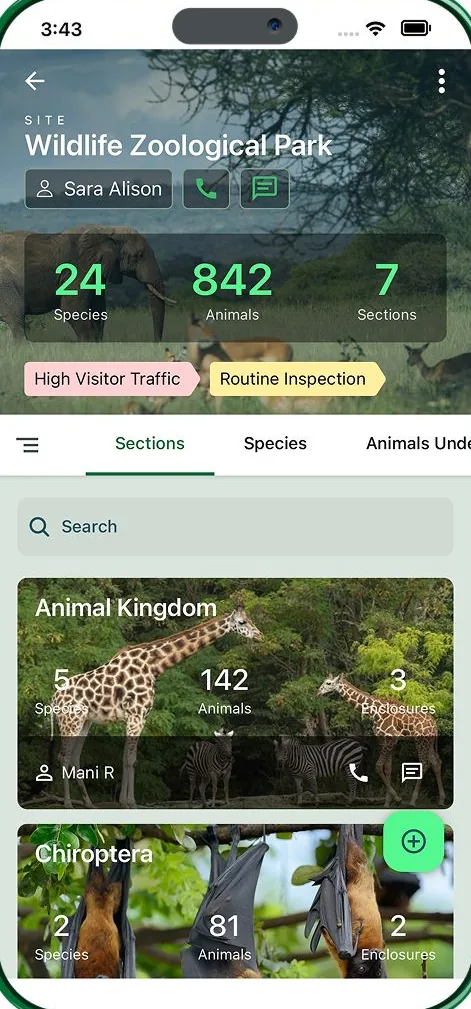
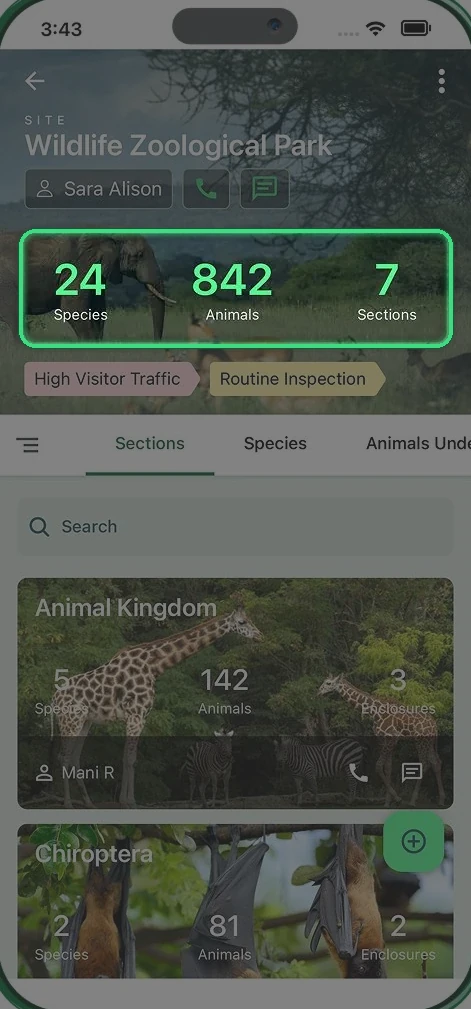
Back-to-top button, linked User Management windows, scrolling permissions screen, highlighted Housing summary panels
- A floating back-to-top button in the app's FAB gradient on every page
- Screen windows no longer repeat a module page's own stepper
- User Management: Parts 01, 03, 05 and 06 step through their cards in one window;
  the Role Permissions screen scrolls on its own under a fixed status bar;
  the Users directory windows show the "On every row" points
- Housing: the site, section and enclosure Summary panel screens highlight their stats

diff --git a/antz-onboard/app.js b/antz-onboard/app.js
@@ -362,7 +362,7 @@
        data-full is the whole screen in one image, for the lens */
     if (shot.scroll) {
       const sc = shot.scroll;
-      return `<div class="device device-phone${z}" data-full="${esc(sc.full)}"><div class="screen screen-scroll"><img class="screen-head" src="${esc(sc.head)}" alt=""><div class="screen-body" tabindex="0" data-at="${sc.at}" aria-label="${esc(shot.alt)}"><img src="${esc(sc.body)}" alt="${esc(shot.alt)}"></div><span class="screen-cue" aria-hidden="true">${esc(t('screen.scroll'))}</span>${k}</div>${l}</div>`;
+      return `<div class="device device-phone${z}" data-full="${esc(sc.full)}"><div class="screen screen-scroll"><img class="screen-head" src="${esc(sc.head)}" alt=""><div class="screen-body" tabindex="0" data-at="${sc.at}"${sc.auto ? ' data-auto' : ''} aria-label="${esc(shot.alt)}"><img src="${esc(sc.body)}" alt="${esc(shot.alt)}"></div>${sc.auto ? '' : `<span class="screen-cue" aria-hidden="true">${esc(t('screen.scroll'))}</span>`}${k}</div>${l}</div>`;
     }
     /* Every phone screen gets the same green frame, drawn in CSS (the frames once baked into some captures are cropped off) */
     return `<div class="device device-phone${z}"><div class="screen">${img}${k}</div>${l}</div>`;
@@ -540,12 +540,13 @@
     const track = g.area && areaById[g.area] ? g.area : 'guide';
     const backModule = byId[g.back] && visible.includes(byId[g.back]) ? byId[g.back] : null;
     const sets = [];
-    const addSet = (key, title, ic, shots, flow) => sets.push({
-      id: `guide-${id}-${key}`, track, title, web: /-web$/.test(id), flow,
-      features: shots.map((s) => ({ title: s.title, desc: s.desc, icon: s.icon || ic, shot: srcOf(s) })),
+    const addSet = (key, title, ic, shots, winFlow, winNotes) => sets.push({
+      id: `guide-${id}-${key}`, track, title, web: /-web$/.test(id), winFlow, winNotes,
+      /* keep: the text is shown exactly as written (it keeps a dash the house style would otherwise turn into a comma) */
+      features: shots.map((s) => ({ title: s.title, desc: s.desc, icon: s.icon || ic, shot: srcOf(s), keep: !!s.keep })),
       /* A screen is a phone unless it says otherwise (device: 'tablet' or 'web' for web modules) */
       shots: shots.map((s) => ({ src: srcOf(s), alt: s.title, device: s.device || 'phone',
-        scroll: s.scroll && { head: srcOf({ src: s.scroll.head }), body: srcOf({ src: s.scroll.body }), full: srcOf({ src: s.scroll.full }), at: s.scroll.at } }))
+        scroll: s.scroll && { head: srcOf({ src: s.scroll.head }), body: srcOf({ src: s.scroll.body }), full: srcOf({ src: s.scroll.full }), at: s.scroll.at, auto: !!s.scroll.auto } }))
     }) - 1;
 
     /* At a glance: the module pages' feature cards, each opening its screen */
@@ -567,8 +568,9 @@
           </ol>
         </div>`;
     };
-    const cardHTML = (c, n) => {
-      const set = addSet(c.id, c.title, c.icon, c.shots, c.flow);
+    /* notes: a part's points (part.notes) shown in the window of each of its cards */
+    const cardHTML = (c, n, notes) => {
+      const set = addSet(c.id, c.title, c.icon, c.shots, c.flow, notes);
       return `
         <div class="gcard-wrap${webGuide ? ' has-lens' : ''}">
         <button class="mcard-face gcard" type="button" data-set="${set}" data-i="0">
@@ -658,7 +660,7 @@
             <p class="section-lede">${withFab(p.lede)}</p>
           </div>
           ${p.glance ? glanceHTML(p.glance) : ''}
-          ${p.cards ? `<div class="ggrid reveal" data-n="${p.cards.length}">${p.cards.map((c) => cardHTML(c, ++n)).join('')}</div>` : ''}
+          ${p.cards ? `<div class="ggrid reveal" data-n="${p.cards.length}"${p.chain ? ' data-chain' : ''}>${p.cards.map((c) => cardHTML(c, ++n, p.notes)).join('')}</div>` : ''}
           ${p.actions ? actionsHTML(p.actions, p.id) : ''}
           ${p.flow ? flowHTML(p.flow) : ''}
           ${p.compare ? compareHTML(p.compare) : ''}
@@ -746,10 +748,14 @@
       const b = e.target.closest('[data-set]');
       if (!b) return;
       const r = b.getBoundingClientRect();
-      /* The window holds only this card's screens and stops at its first and last; closing it returns focus to the card */
+      /* The window holds only this card's screens and stops at its first and last. In a grid marked chain
+         (part.chain), it runs on through every card of that grid instead. Closing returns focus to the card last shown */
+      const grid = b.closest('.ggrid[data-chain]');
+      const ids = grid ? [...grid.querySelectorAll('.gcard[data-set]')].map((x) => +x.dataset.set) : null;
       (narrow() ? openFeatureSheet : openFeatureWindow)(sets[+b.dataset.set], +b.dataset.i || 0, {
         origin: { x: r.left + r.width / 2, y: r.top + r.height / 2 },
-        close: () => b.focus({ preventScroll: true }), returnFocusTo: b
+        chain: ids ? { sets: ids.map((k) => sets[k]), at: ids.indexOf(+b.dataset.set) } : undefined,
+        close: (i, k) => ((ids && page.querySelector(`.gcard[data-set="${ids[k]}"]`)) || b).focus({ preventScroll: true }), returnFocusTo: b
       });
     });
     sizeBorders();
@@ -1874,6 +1880,26 @@
         screen.classList.toggle('at-end', atEnd());
         if (placed && cue) cue.classList.add('gone');
       }, { passive: true });
+      /* data-auto: the screen scrolls itself slowly down and back up, as on the deck's page; scrolling it by hand
+         pauses that for a few seconds. It stops once the screen leaves the page */
+      if ('auto' in body.dataset && !reducedMotion()) {
+        let pos = 0, dir = 1, last = performance.now(), hold = 0;
+        const pause = () => { hold = performance.now() + 2600; };
+        ['wheel', 'pointerdown', 'touchstart', 'keydown'].forEach((ev) => body.addEventListener(ev, pause, { passive: true }));
+        const tick = (now) => {
+          if (!body.isConnected) return;
+          const dt = Math.min(0.05, (now - last) / 1000); last = now;
+          const max = body.scrollHeight - body.clientHeight;
+          if (now < hold) pos = body.scrollTop;
+          else if (max > 0) {
+            pos += dir * 34 * dt;
+            if (pos >= max) { pos = max; dir = -1; } else if (pos <= 0) { pos = 0; dir = 1; }
+            body.scrollTop = pos;
+          }
+          requestAnimationFrame(tick);
+        };
+        requestAnimationFrame(tick);
+      }
     });
   }
   let closeFeatureWindow = null;
@@ -1902,6 +1928,7 @@
             <div class="fwin-head"><span class="fwin-ic" aria-hidden="true"></span><p class="fwin-count" aria-live="polite"></p></div>
             <h2 class="fwin-title" id="fwin-title"></h2><p class="fwin-desc"></p>
           </div>
+          <div class="fwin-notes"></div>
           <div class="fwin-flow"></div>
           <div class="fwin-dots"></div>
         </div>
@@ -1914,16 +1941,35 @@
     const dotBox = w.querySelector('.fwin-dots');
     let dots = [], animals = [];
     /* (Re)build what belongs to the current set: its title, dots and animal wash */
+    /* A chained window counts and dots every screen of every card in the chain, so a run of one-screen cards reads "3 of 5" */
+    const before = (k) => (chain ? chain.sets.slice(0, k).reduce((a, x) => a + x.features.length, 0) : 0);
+    const total = chain ? before(chain.sets.length) : 0;
     const useSet = () => {
       n = m.features.length;
       w.querySelector('.fwin-set').textContent = m.title;
-      dotBox.innerHTML = m.features.map((f, i) => `<button type="button" data-i="${i}" aria-label="${esc(tidyTitle(f.title))}"></button>`).join('');
-      dots = [...dotBox.children];
-      /* A card's own process (flow), the same for each of its screens, as the module pages' stepper */
-      w.querySelector('.fwin-flow').innerHTML = m.flow ? moduleFlowHTML(m.flow) : '';
+      if (!chain || !dots.length) {
+        dotBox.innerHTML = (chain ? chain.sets : [m]).map((x, k) => x.features.map((f, i) =>
+          `<button type="button" data-k="${k}" data-i="${i}" aria-label="${esc(tidyTitle(f.title))}"></button>`).join('')).join('');
+        dots = [...dotBox.children];
+      }
+      /* A guide card's own process (winFlow), the same for each of its screens, as the module pages' stepper.
+         Only cards whose process is not already on the page behind (a module's own flow is shown there) */
+      w.querySelector('.fwin-flow').innerHTML = m.winFlow ? moduleFlowHTML(m.winFlow) : '';
+      /* A part's points (winNotes), such as what every row of the directory offers: a label, then one line each */
+      const nt = m.winNotes;
+      w.querySelector('.fwin-notes').innerHTML = nt ? `
+        <p class="fwin-notes-label">${esc(nt.label)}</p>
+        <ul>${nt.items.map((x) => `<li><span class="ic" aria-hidden="true">${x.icon === 'search' ? SEARCH_SVG : icon(x.icon)}</span><span><b>${esc(x.lead)}</b> ${esc(x.text)}</span></li>`).join('')}</ul>` : '';
       animals = animalsFor(m);
     };
     useSet();
+    /* Move to another card of the chain (a dot on another card) */
+    const toSet = (k, i = 0) => {
+      if (!chain || k === chain.at) return;
+      const dir = k > chain.at ? 1 : -1;
+      chain.at = k; m = chain.sets[k]; useSet(); idx = -1;
+      go(i, dir);
+    };
     const hasSet = (d) => !!(chain && chain.sets[chain.at + d]);
     let idx = -1;
     const go = (i, dir = 0) => {
@@ -1938,10 +1984,10 @@
       if (i < 0 || i >= n || i === idx) return;
       idx = i;
       const f = m.features[i], shot = shotOf(i);
-      w.querySelector('.fwin-count').textContent = t('win.count', { i: i + 1, n });
+      w.querySelector('.fwin-count').textContent = chain ? t('win.count', { i: before(chain.at) + i + 1, n: total }) : t('win.count', { i: i + 1, n });
       w.querySelector('.fwin-ic').innerHTML = icon(f.icon);
       w.querySelector('.fwin-title').textContent = tidyTitle(f.title);
-      w.querySelector('.fwin-desc').textContent = tidy(f.desc);
+      w.querySelector('.fwin-desc').textContent = f.keep ? f.desc : tidy(f.desc);
       /* The wash starts a little below the text, however long this feature's description is */
       setAnimal(w.querySelector('.fwin-info'), animals[i % animals.length], () => text.offsetTop + text.offsetHeight);
       dev.innerHTML = shot ? deviceHTML({ ...shot, lock: !!f.lock }) : `<p class="fwin-empty">${esc(t('win.soon'))}</p>`;
@@ -1954,7 +2000,7 @@
       prev.disabled = i === 0 && !hasSet(-1); next.disabled = i === n - 1 && !hasSet(1);
       /* An arrow that just became disabled drops focus; hand it to the other arrow */
       if (had && had.disabled) (had === next ? prev : next).focus({ preventScroll: true });
-      dots.forEach((d, j) => d.setAttribute('aria-current', String(j === i)));
+      dots.forEach((d) => d.setAttribute('aria-current', String(+d.dataset.i === i && +d.dataset.k === (chain ? chain.at : 0))));
       [i - 1, i + 1].forEach((j) => { const s2 = j >= 0 && j < n && shotOf(j); if (s2) new Image().src = s2.src; });
       if (step) step(i);
     };
@@ -1985,7 +2031,13 @@
     document.addEventListener('keydown', onKey);
     prev.addEventListener('click', () => go(idx - 1, -1));
     next.addEventListener('click', () => go(idx + 1, 1));
-    dotBox.addEventListener('click', (e) => { const d = e.target.closest('button'); if (d) go(+d.dataset.i, +d.dataset.i > idx ? 1 : -1); });
+    dotBox.addEventListener('click', (e) => {
+      const d = e.target.closest('button');
+      if (!d) return;
+      const k = +d.dataset.k, i = +d.dataset.i;
+      if (chain && k !== chain.at) toSet(k, i);
+      else go(i, i > idx ? 1 : -1);
+    });
     w.addEventListener('click', (e) => { if (e.target.closest('[data-close]')) shut(); });
     go(start);
     /* Radial opening: a circle grows from the clicked feature until it covers the whole card */
@@ -2040,7 +2092,7 @@
       </div>
       <div class="g-stage"><div class="g-track"><span class="g-frame"><img class="g-img" alt="" draggable="false"></span></div>${sheet ? lensHTML() : ''}</div>
       <div class="g-info"><div class="g-head"><span class="g-ic" aria-hidden="true"></span></div><b class="g-ft"></b><p class="g-fd"></p></div>
-      ${sheet && m.flow ? `<div class="g-flow">${moduleFlowHTML(m.flow)}</div>` : ''}
+      ${sheet && m.winFlow ? `<div class="g-flow">${moduleFlowHTML(m.winFlow)}</div>` : ''}
       <div class="g-nav">
         <button class="g-arrow g-prev" type="button" aria-label="${esc(t('win.prev'))}">${CHEV_L}</button>
         <div class="g-dots">${slides.map((sl, i) => `<button type="button" aria-label="${esc(sl.title || t('gal.screen', { i: i + 1 }))}" data-i="${i}"></button>`).join('')}</div>
@@ -2297,7 +2349,7 @@
     const slidesOf = (x, group) => x.features.map((f, i) => {
       const src = f.shot || (x.shots[i] && x.shots[i].src) || (x.shots[0] && x.shots[0].src);
       const shot = src ? shotFor(x, src) : null;
-      return { src: src || '', full: shot && shot.scroll && shot.scroll.full, alt: (shot && shot.alt) || f.title, title: tidyTitle(f.title), desc: tidy(f.desc), icon: f.icon, device: shot && shot.device,
+      return { src: src || '', full: shot && shot.scroll && shot.scroll.full, alt: (shot && shot.alt) || f.title, title: tidyTitle(f.title), desc: f.keep ? f.desc : tidy(f.desc), icon: f.icon, device: shot && shot.device,
         lock: !!f.lock, group, groupTitle: x.title, local: i };
     });
     if (!chain) { openGallery(m, slidesOf(m), start, returnFocusTo, { sheet: true, origin, step, close }); return; }
@@ -2339,8 +2391,24 @@
       goTop = false;
     }
     syncHeader();
+    syncTopFab();
     observeReveal();
   }
+
+  /* Every page: a floating button back to the top, in the app's FAB gradient, once the banner is scrolled past */
+  const topFab = document.createElement('button');
+  topFab.className = 'top-fab';
+  topFab.type = 'button';
+  topFab.setAttribute('aria-label', t('top.back'));
+  topFab.title = t('top.back');
+  topFab.innerHTML = '<svg viewBox="0 0 24 24" aria-hidden="true"><path d="M12 19V5M5.5 11.5 12 5l6.5 6.5"/></svg>';
+  document.body.append(topFab);
+  function syncTopFab() { topFab.classList.toggle('show', window.scrollY > window.innerHeight * 0.8); }
+  window.addEventListener('scroll', syncTopFab, { passive: true });
+  topFab.addEventListener('click', () => {
+    window.scrollTo({ top: 0, behavior: matchMedia('(prefers-reduced-motion: reduce)').matches ? 'auto' : 'smooth' });
+    topFab.blur();
+  });
   function observeReveal() {
     const els = app.querySelectorAll('.reveal');
     if (!('IntersectionObserver' in window)) { els.forEach((e) => e.classList.add('in')); return; }

diff --git a/antz-onboard/guide.js b/antz-onboard/guide.js
@@ -381,6 +381,8 @@ window.ANTZ_GUIDES = {
         id: 'capabilities',
         label: 'Part 01 · The module',
         title: 'What the module does',
+        /* One screen per card: the window steps on through all five cards rather than stopping at each */
+        chain: true,
         lede: 'Create and manage every account, set what each role can reach, and keep a record of who signed in and from where. Users also get secure login with OTP recovery delivered over SMS or WhatsApp.',
         /* The overview slide has no screens: each card opens the matching screen from the walkthrough slides.
            Login & Recovery has no screen anywhere in the deck, so it is kept in the lede rather than as a card.
@@ -388,10 +390,10 @@ window.ANTZ_GUIDES = {
         cards: [
           { id: 'profile', title: 'Profile creation & management', icon: 'users', desc: 'Store user details: name, contact, staff ID, date of birth and blood group.',
             shots: [{ src: 'add-identity', scroll: { head: 'form-head', body: 'form-identity', full: 'form-identity-full', at: 238 }, title: 'Add User Basic Info', desc: 'The form that captures a new user\'s identity, contact and personal details.' }] },
-          { id: 'roles', title: 'Roles & permissions', icon: 'access', desc: 'Assign roles, such as Curator or Vet, and set their access rights per module.',
-            shots: [{ src: 'role-permissions', title: 'Role permissions', desc: 'Choose a role and see the rights it holds in each module.' }] },
           { id: 'access', title: 'Access control', icon: 'shield', desc: 'Restrict by site or section, activate or deactivate accounts, with auto-timeout.',
             shots: [{ src: 'access-scope', title: 'Access permissions', desc: 'Location, pharmacy, organisation, nursery, necropsy centre and hospital access for one user.' }] },
+          { id: 'roles', title: 'Roles & permissions', icon: 'access', desc: 'Assign roles, such as Curator or Vet, and set their access rights per module.',
+            shots: [{ src: 'role-permissions', scroll: { head: 'perm-head', body: 'perm-body', full: 'perm-full', at: 0, auto: true }, title: 'Role permissions', desc: 'Choose a role and see the rights it holds in each module.' }] },
           { id: 'activity', title: 'Activity tracking', icon: 'devices', desc: 'See last login and device details, and deactivate a device if needed.',
             shots: [
               { src: 'profile-devices', title: 'Devices', desc: 'Signed-in devices, each with its device ID and last active time.' },
@@ -429,12 +431,15 @@ window.ANTZ_GUIDES = {
         id: 'roles',
         label: 'Part 03 · Who can do what',
         title: 'Roles, permissions & access',
+        /* The window steps between both cards with its arrows; the permissions screen scrolls on its own, up and down,
+           under its fixed status bar, as on the deck's page */
+        chain: true,
         lede: 'Pick a role, then tune exactly what it can reach. Permissions run per module; access runs per place. Grant or modify view, add, edit or delete rights, applied per module, per role or per individual user.',
         cards: [
           { id: 'scope', title: 'Access scope mapping', icon: 'areas', desc: 'Map the user to sites, pharmacies, nurseries, hospitals and necropsy centres.',
             shots: [{ src: 'access-scope', title: 'Access permissions', desc: 'Location, pharmacy, organisation, nursery, necropsy centre and hospital access on the Edit Permissions screen.' }] },
           { id: 'modules', title: 'Roles & module permissions', icon: 'access', desc: 'Choose a role, then grant View, Add, Edit or Delete per module.',
-            shots: [{ src: 'role-permissions', title: 'Role permissions', desc: 'A Zoologist role with its module permissions for collection, housing, mortality and more.' }] }
+            shots: [{ src: 'role-permissions', scroll: { head: 'perm-head', body: 'perm-body', full: 'perm-full', at: 0, auto: true }, title: 'Role permissions', desc: 'A Zoologist role with its module permissions for collection, housing, mortality and more.' }] }
         ]
       },
       {
@@ -461,17 +466,30 @@ window.ANTZ_GUIDES = {
         id: 'directory',
         label: 'Part 05 · Everyone, at a glance',
         title: 'Users directory',
+        /* The window steps between both cards with its arrows and shows, under each screen's text, what every row
+           of the list offers, as on the deck's directory page */
+        chain: true,
+        notes: {
+          label: 'On every row',
+          items: [
+            { icon: 'search', lead: 'Search', text: 'by name, role or staff number.' },
+            { icon: 'chat', lead: 'Call & chat', text: 'a teammate without leaving the list.' },
+            { icon: 'history', lead: 'Last active', text: 'time, so you know who\'s online.' }
+          ]
+        },
         lede: 'The directory opens on a live count of your team and lets you reach anyone in a tap. Search by name, role or staff number, call or chat a teammate without leaving the list, and see each person\'s last active time.',
         cards: [
           { id: 'people', title: 'By users', icon: 'users', desc: 'Total, active today and blocked — then the full searchable list.',
-            shots: [{ src: 'directory-people', title: 'Users by people', desc: 'Team totals above a searchable list of users, each with call and chat.' }] },
+            shots: [{ src: 'directory-people', title: 'Users by people', keep: true, desc: 'Total, active today and blocked — then the full searchable list.' }] },
           { id: 'sites', title: 'By site', icon: 'areas', desc: 'The same counts rolled up per facility, site by site.',
-            shots: [{ src: 'directory-sites', title: 'Users by site', desc: 'Total users, active today and blocked, rolled up for each site.' }] }
+            shots: [{ src: 'directory-sites', title: 'Users by site', desc: 'The same counts rolled up per facility, site by site.' }] }
         ]
       },
       {
         id: 'filters',
         label: 'Part 06 · Narrow it down',
+        /* One screen per card: the window steps between both with its arrows */
+        chain: true,
         title: 'Filters & activity logs',
         lede: 'Narrow the directory down by role or status, and read the activity trail for anyone. The activity log filters actions by user and time range, covering logins, animal and medical records, facility, diet, notes and breeding.',
         /* The deck says the directory can be sliced "four ways" but shows only two filters (role and status), so the count is left out */

diff --git a/antz-onboard/styles.css b/antz-onboard/styles.css
@@ -1489,6 +1489,16 @@ body.fwin-open { overflow: hidden; }
 .fwin-title { font-size: clamp(26px, 2.6vw, 34px); font-weight: 800; letter-spacing: -.02em; line-height: 1.15; color: var(--ink); }
 .fwin-desc { margin-top: 14px; font-size: 17px; line-height: 1.6; color: var(--muted); }
 .fwin-dots { display: flex; flex-wrap: wrap; gap: 8px; margin-top: auto; padding-top: 32px; }
+/* A part's points in the window (winNotes): a small label with a rule, then one line each with its icon */
+.fwin-notes:empty { display: none; }
+.fwin-notes { margin-top: 26px; }
+.fwin-notes-label { display: flex; align-items: center; gap: 14px; margin: 0 0 14px; font-size: 11.5px; font-weight: 700; letter-spacing: .14em; text-transform: uppercase; color: var(--tint-ink, var(--green-strong)); }
+.fwin-notes-label::after { content: ""; flex: 1; height: 1px; background: color-mix(in srgb, var(--tint-line) 22%, transparent); }
+.fwin-notes ul { list-style: none; margin: 0; padding: 0; display: grid; gap: 12px; }
+.fwin-notes li { display: grid; grid-template-columns: 32px 1fr; align-items: center; gap: 12px; font-size: 14.5px; line-height: 1.45; color: var(--muted); }
+.fwin-notes li b { color: var(--ink); font-weight: 600; }
+.fwin-notes .ic { width: 32px; height: 32px; border-radius: 10px; display: grid; place-items: center; color: var(--tint-ink, var(--green-strong)); background: color-mix(in srgb, var(--tint-line) 12%, #fff); }
+.fwin-notes .ic svg { width: 17px; height: 17px; }
 /* A card's process stepper in the window: the module pages' stepper, a little smaller, under the description */
 .fwin-flow:empty { display: none; }
 .fwin-flow .mflow { margin: 32px 0 0; padding: 20px 20px 18px; background: rgba(255,255,255,.75); box-shadow: 0 1px 2px rgba(14,23,21,.05), 0 0 0 1px color-mix(in srgb, var(--tint-line) 14%, transparent); }
@@ -1759,6 +1769,29 @@ body.fwin-open { overflow: hidden; }
 /* ---------- Footer ---------- */
 /* Footer: the Antz Systems website's closing band. Green to navy, the logo, "See Antz in Action",
    the Book a Demo pill (white, with a green panel irising over it on hover), the store badges and the legal row */
+/* Back to top (every page): a rounded square in the app's FAB gradient (References/gradient_for_fab.svg),
+   appearing once the hero is scrolled past and rising off the page on hover */
+.top-fab {
+  position: fixed; z-index: 60; right: max(24px, env(safe-area-inset-right, 0px)); bottom: calc(24px + env(safe-area-inset-bottom, 0px));
+  width: 56px; height: 56px; padding: 0; border: 0; border-radius: 16px; display: grid; place-items: center; cursor: pointer; color: #fff;
+  background: linear-gradient(127deg, #00D6C9 0%, #37BD69 100%);
+  box-shadow: 0 10px 18px -8px rgba(14,40,34,.45), 0 2px 4px rgba(14,40,34,.12);
+  opacity: 0; visibility: hidden; transform: translateY(16px) scale(.92);
+  transition: opacity .3s var(--ease), transform .45s cubic-bezier(.4,0,.2,1), box-shadow .45s cubic-bezier(.4,0,.2,1), visibility 0s linear .3s;
+}
+.top-fab svg { width: 26px; height: 26px; fill: none; stroke: currentColor; stroke-width: 2.4; stroke-linecap: round; stroke-linejoin: round; }
+.top-fab.show { opacity: 1; visibility: visible; transform: none; transition: opacity .3s var(--ease), transform .45s cubic-bezier(.4,0,.2,1), box-shadow .45s cubic-bezier(.4,0,.2,1), visibility 0s; }
+@media (hover: hover) {
+  .top-fab.show:hover {
+    transform: translateY(-5px); box-shadow: 0 20px 30px -12px rgba(14,40,34,.5), 0 4px 8px rgba(14,40,34,.12);
+    transition: opacity .3s var(--ease), transform .55s cubic-bezier(.34,1.56,.64,1), box-shadow .55s cubic-bezier(.22,.8,.24,1), visibility 0s;
+  }
+  .top-fab.show:hover svg { animation: topNudge .9s cubic-bezier(.4,0,.2,1) infinite; }
+}
+.top-fab.show:active { transform: translateY(-2px); transition-duration: .12s; }
+@keyframes topNudge { 50% { transform: translateY(-2px); } }
+@media (max-width: 640px) { .top-fab { width: 48px; height: 48px; border-radius: 14px; right: 16px; bottom: calc(16px + env(safe-area-inset-bottom, 0px)); } .top-fab svg { width: 22px; height: 22px; } }
+@media (prefers-reduced-motion: reduce) { .top-fab, .top-fab.show, .top-fab.show:hover { transition: opacity .2s, visibility 0s; transform: none; } .top-fab.show:hover svg { animation: none; } }
 .site-footer { background: linear-gradient(90deg, #37BD69 0%, #1F415B 98%); color: #fff; }
 .footer-cta { max-width: 1280px; margin: 0 auto; padding: 47px 55px; display: flex; flex-direction: column; align-items: center; gap: 24px; text-align: center; }
 .footer-logo { width: 170px; height: auto; transform: scaleY(.95); }

diff --git a/antz-onboard/i18n.js b/antz-onboard/i18n.js
@@ -32,6 +32,7 @@
     'brand.home': 'Antz Systems, home',
     'meta.description': 'A short, visual guide to the Antz platform for animal care teams.',
     'nav.primary': 'Primary',
+    'top.back': 'Back to top',
     'nav.menu': 'Menu',
     'nav.modules': 'Modules',
     'nav.why': 'Why Antz',
